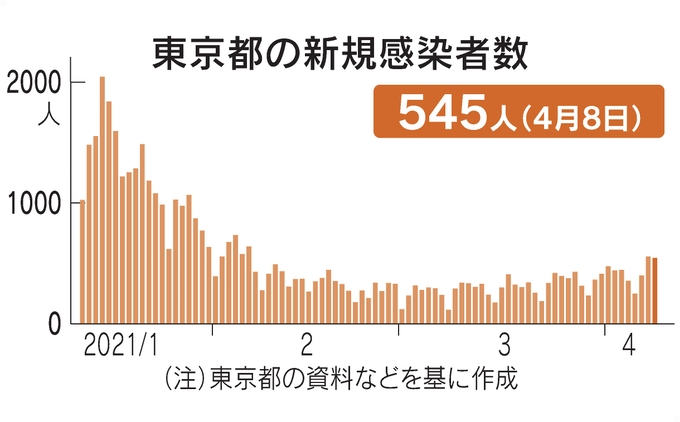
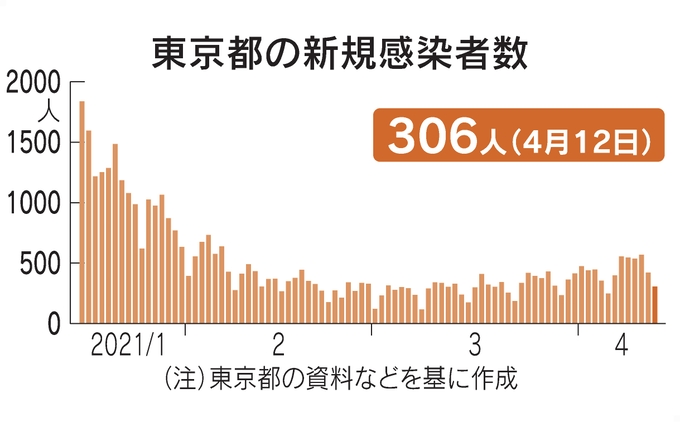
regular update

diff --git a/parts/news.php b/parts/news.php
@@ -46,6 +46,63 @@
         </li>
 
     <hr> -->
+        2021年04月12日
+    
+        <li>
+                <i class="far fa-file-alt"></i>
+                <a href="https://www.nikkei.com/article/DGXZQOCC122EL0S1A410C2000000/" target="blank" rel="noopener">
+                東京都、新たに306人感染　新型コロナ</a>
+        </li>
+        <li>
+                <i class="far fa-file-alt"></i>
+                <a href="https://www.nikkei.com/article/DGXZQOUE0982E0Z00C21A4000000/" target="blank" rel="noopener">
+                「ひとまず安心」　高齢者ワクチン接種、自治体に緊張感</a>
+        </li>
+        <li>
+                <i class="far fa-file-alt"></i>
+                <a href="https://www.nikkei.com/article/DGXZQODF095WL0Z00C21A4000000/" target="blank" rel="noopener">
+                長引くコロナ禍、のしかかる税・社保料2.8兆円の後払い</a>
+        </li>
+
+    <hr>
+        2021年04月11日
+    
+        <li>
+                <i class="far fa-file-alt"></i>
+                <a href="https://www.nikkei.com/article/DGXZQOCC1119S0R10C21A4000000/" target="blank" rel="noopener">
+                東京都、新たに421人感染　新型コロナ</a>
+        </li>
+        <li>
+                <i class="far fa-file-alt"></i>
+                <a href="https://www.nikkei.com/article/DGXZQOPT111S80R10C21A4000000/" target="blank" rel="noopener">
+                大阪の新規感染760人、兵庫は229人　新型コロナ</a>
+        </li>
+        <li>
+                <i class="far fa-file-alt"></i>
+                <a href="https://www.nikkei.com/article/DGXZQOCC112SU0R10C21A4000000/" target="blank" rel="noopener">
+                小池都知事「配分まで感染対策を」　高齢者ワクチン接種</a>
+        </li>
+
+    <hr>
+        2021年04月10日
+    
+        <li>
+                <i class="far fa-file-alt"></i>
+                <a href="https://www.nikkei.com/article/DGXZQOCC100ZW0Q1A410C2000000/" target="blank" rel="noopener">
+                東京都、新たに570人感染　新型コロナ</a>
+        </li>
+        <li>
+                <i class="far fa-file-alt"></i>
+                <a href="https://www.nikkei.com/article/DGXZQOUF102FT0Q1A410C2000000/" target="blank" rel="noopener">
+                大阪府、10日の新規感染918人　過去最多</a>
+        </li>
+        <li>
+                <i class="far fa-file-alt"></i>
+                <a href="https://www.nikkei.com/article/DGXZQOUE100X90Q1A410C2000000/" target="blank" rel="noopener">
+                まん延防止決定後、初の週末　旅行者に戸惑いも</a>
+        </li>
+
+    <hr>
         2021年04月09日
     
         <li>

diff --git a/parts/info.php b/parts/info.php
@@ -1,11 +1,15 @@
 <ul class="info slide-in-animation">
 
+
+
+  <div class="line"> INFO <i class="fas fa-info-circle"></i></div>
+
+
   <li>2021年04月10日</li>
   <div class="info-children">
     <span><a href="english-daily-conversation.php">ENGLISH（CVS同化音中級）</a> 410～420 追加</span>
   </div>
 
-  <div class="line"> INFO <i class="fas fa-info-circle"></i></div>
   <li>2021年04月09日</li>
   <div class="info-children">
     <span><a href="movie.php">MOVIE</a>（西の魔女が死んだ）追加</span>
